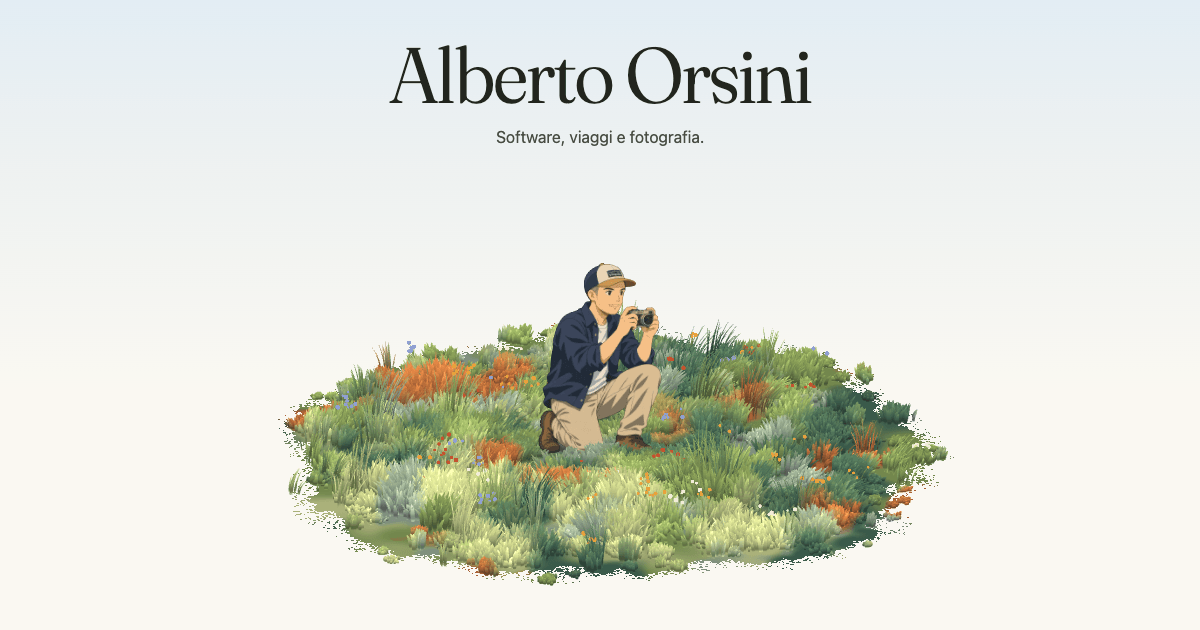
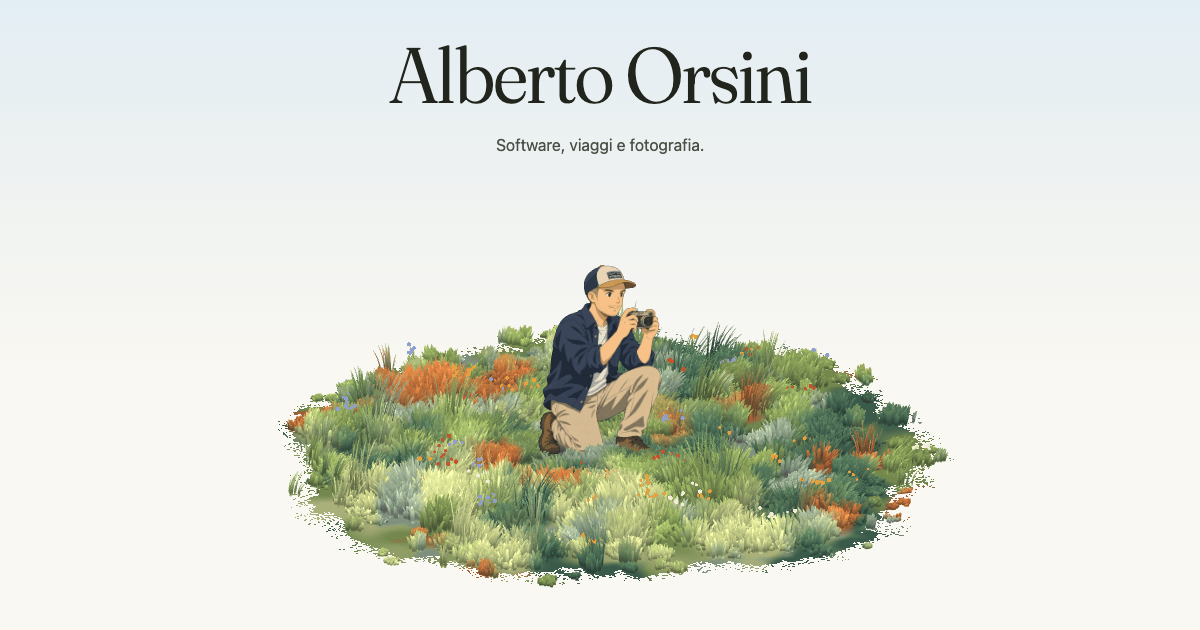
style: più spazio fra titolo, sottotitolo e bottone

Changed region(s): [[0.2158, 0.4222, 0.8017, 0.9349], [0.4008, 0.2111, 0.5858, 0.2413]]

diff --git a/src/assets/style.css b/src/assets/style.css
@@ -14,8 +14,8 @@ a { color: inherit; }
 
 .intro { position: relative; z-index: 1; padding: clamp(60px, 7vh, 80px) 16px 0; text-align: center; pointer-events: none; }
 .intro h1 { margin: 0; font: 340 clamp(2.4rem, 6.5vw, 5rem)/1.02 Fraunces, Georgia, serif; letter-spacing: -.025em; }
-.intro p { margin: .6rem 0 0; color: var(--soft); }
-#doors { display: flex; flex-wrap: wrap; justify-content: center; gap: 10px; margin-top: 1.2rem; }
+.intro p { margin: 1.1rem 0 0; color: var(--soft); }
+#doors { display: flex; flex-wrap: wrap; justify-content: center; gap: 10px; margin-top: 1.9rem; }
 #doors a { pointer-events: auto; min-height: 44px; display: inline-flex; align-items: center; padding: 0 20px; border: 1px solid #22251e40; border-radius: 8px; background: #faf8f2d9; text-decoration: none; }
 #doors a:hover, #doors a[aria-current] { background: var(--ink); border-color: var(--ink); color: var(--paper); }
 
@@ -42,8 +42,8 @@ a { color: inherit; }
 @media (max-height: 520px) and (min-width: 560px) {
   .intro { padding-top: 12px; }
   .intro h1 { font-size: 2rem; }
-  .intro p { margin-top: .2rem; font-size: .9rem; }
-  #doors { margin-top: .6rem; }
+  .intro p { margin-top: .35rem; font-size: .9rem; }
+  #doors { margin-top: .8rem; }
   .stage { min-height: 170px; }
   .arrow { height: 36px; }
 }
